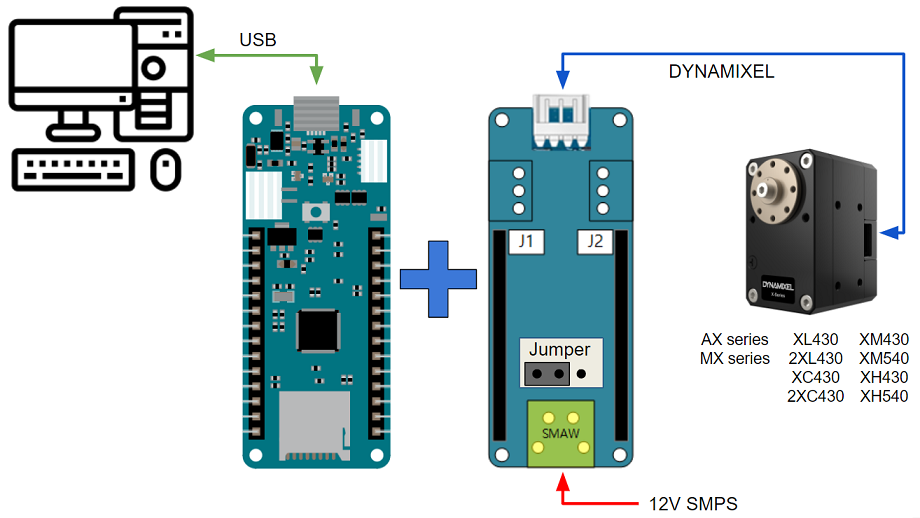
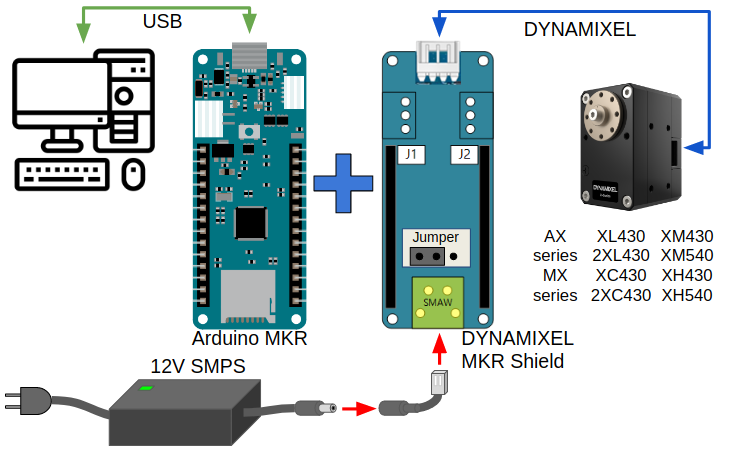
mkr manual revision

diff --git a/docs/en/parts/interface/mkr_shield.md b/docs/en/parts/interface/mkr_shield.md
@@ -16,93 +16,116 @@ sidebar:
 
 DYNAMIXEL MKR Shield(TTL) is compatible with MKR form factor Arduino boards such as MKR ZERO, MKR1000 WIFI, MKR WiFi 1010, and Portenta H7. We provide Arduino libraries(DYNAMIXEL2Arduino, DYNAMIXEL Shield) for DYNAMIXEL MKR Shield to accelerate the development process using DYNAMIXEL on Arduino.
 
+Please refer to DYNAMIXEL Shield Libraries section to 
+
 {% capture shield_00 %}
 **WARNING!**
-1. **This product does not contain Arduino Board. Arduino Board should be purchased separately.**  
-2. **One of three DYNAMIXEL ports is attached on the shield for DYNAMIXEL X series (More headers are included).**
-3. **Please solder included headers and parts when necessary.**
-4. **Some Arduino MKR shields(i.g. Arduino MKR 485 Shield, Arduino MKR GPS Shield, etc) may not fully compatible with DYNAMIXEL MKR Shield due to the pin confliction. Please refer to each product information before use with DYNAMIXEL MKR Shield.**  
+1. This product does not contain Arduino Board. **Arduino Board should be purchased separately.**  
+2. **One of three DYNAMIXEL ports is attached** on the shield for DYNAMIXEL X series (More headers are included).  
+3. Please solder included headers and parts when necessary.  
+4. Some Arduino MKR shields may not fully compatible with DYNAMIXEL MKR Shield due to the pin confliction. Please refer to each product information before use with DYNAMIXEL MKR Shield.  
 {% endcapture %}
 <div class="notice--danger">{{ shield_00 | markdownify }}</div>
 
+# [Quick Start Guide](#quick-start-guide)
+
+## Online Coursework
+![](http://robotsource.net/upload_image/images/1596679803mkr.png)
+
+## Video
+<iframe width="560" height="315" src="https://www.youtube.com/embed/UFitBEHsWTo" frameborder="0" allow="autoplay; encrypted-media" allowfullscreen></iframe>
+
 # [Specifications](#specifications)
 
-|            Item            |                              Details                               |
-|:--------------------------:|:------------------------------------------------------------------:|
-| Recommended supply Voltage |                            3.7 ~ 24 [V]                            |
-|      Maximum Current       |                                 3A                                 |
-|         Connectors         | JST ([S3B-EH]), Molex ([5268-02A]), Power Connector ([SMAW250-02]) |
-|           Cables           |      DC Jack Harness (Type A, O.D.: 5.5 [mm], I.D.: 2.1 [mm])      |
-|         Dimensions         |                            68 x 25 [mm]                            |
+|             Item             |                                        Details                                         |
+|:----------------------------:|:--------------------------------------------------------------------------------------:|
+| VIN(DXL) Voltage<sup>1</sup> |                                      3.7 ~ 24 [V]                                      |
+|    Operating Temperature     |                                   -10 ~ +80 [&deg;C]                                   |
+|    Connectors<sup>2</sup>    |    JST([S3B-EH]), Molex([5268-02A]), Power Connector([SMAW250-02]), Terminal Block     |
+|     Physical Connection      |                                        TTL only                                        |
+|            Cables            | DC Jack Harness (Type A, O.D.: 5.5 [mm], I.D.: 2.5 [mm]), Convertible cable for XL-320 |
+|          Dimensions          |                                      68 x 25 [mm]                                      |
+|            Weight            |                                         11 [g]                                         |
 
-[ROBOTIS SMPS 12V 5A PS-10] is recommended for 12V DYNAMIXEL power supply.
+<sup>1</sup> [ROBOTIS SMPS 12V 5A PS-10] is recommended for 12V DYNAMIXEL power supply.  
+<sup>2</sup> Only one JST is assembled by default. Please solder included connectors when necessary.
+{: .notice}
+
 
 ## [Supported DYNAMIXEL](#supported-dynamixel)
-DYNAMIXEL MKR Shield(TTL) only supports `TTL` based DYNAMIXEL lineups.
+DYNAMIXEL MKR Shield only supports `TTL` based DYNAMIXEL lineups.
 
 | DYNAMIXEL Series |                                    |                                     |                                     |                                     |
 |:-----------------|:-----------------------------------|:------------------------------------|:------------------------------------|:------------------------------------|
 | **AX**           | [AX-12W]                           | [AX-12+/12A]                        | [AX-18F/18A]                        |                                     |
 | **MX**           | [MX-12W]                           | [MX-28T/AT]<br/> [MX-28T/AT(2.0)]   | [MX-64T/AT]<br/> [MX-64T/AT(2.0)]   | [MX-106T/AT]<br/> [MX-106T/AT(2.0)] |
-| **XL**           | [XL-320]                           | XL330-M077-T<br/> XL330-M288-T      | [XL430-W250-T]<br/> [2XL430-W250-T] |                                     |
+| **XL**           | [XL-320]                           | [XL330-M077-T]<br/> [XL330-M288-T]  | [XL430-W250-T]<br/> [2XL430-W250-T] |                                     |
 | **XC**           | [XC430-W150-T]                     | [XC430-W240-T]<br/> [2XC430-W250-T] |                                     |                                     |
 | **XM**           | [XM430-W210-T]<br/> [XM430-W350-T] | [XM540-W150-T]<br/> [XM540-W270-T]  |                                     |                                     |
 | **XH**           | [XH430-W210-T]<br/> [XH430-W350-T] | [XH540-W150-T]<br/> [XH540-W270-T]  |                                     |                                     |
 
-## Part Lists(#part-lists)
+## [Part Lists](#part-lists)
 The following parts are included in the package.  
-PCB headers
+- DYNAMIXEL MKR Shield (1)
+- JST([S3B-EH]) (2)
+- Molex([5268-02A]) (2)
+- Terminal Block (1)
+- DC Jack Harness (1)
+- XL-320 Convertible cable (1)
 
 # [Layout](#layout)
-DYNAMIXEL MKR Shield Schematics can be found in the below.   
-[Place the Schematic PDF file link here]
+DYNAMIXEL MKR Shield Schematics can be found in the below.  
+- [DYNAMIXEL MKR Shield Schematic](https://www.robotis.com/service/download.php?no=1988)
 
 ![](/assets/images/parts/interface/mkr_shield/pinmap.png)  
 > The DYNAMIXEL MKR Shield pinout is based on the layout of Aruduino MKR boards. 
 
-|        Item        |                           Description                           |
-|:------------------:|:---------------------------------------------------------------:|
-| DYNAMIXEL TTL Port |                     TTL DYNAMIXEL supported                     |
-|      VIN(DXL)      |               External power input for DYNAMIXEL                |
-|        +5V         |        Arduino MKR 5V shared power source for DYNAMIXEL         |
-|     Jumper Cap     | <sup>*</sup>Power Source Selection between `VIN(DXL)` and `+5V` |
-
-{% capture shield_01 %}
-<sup>*</sup> When `+5V` is selected with the Jumper Cap, do **NOT** connect the external power source at the Power Connector `VIN(DXL)`. Doing so will damage the Arduino MKR board.  
-{% endcapture %}
-<div class="notice--warning">{{ shield_01 | markdownify }}</div>
+|        Item        |                     Description                     |
+|:------------------:|:---------------------------------------------------:|
+| DYNAMIXEL TTL Port |               TTL DYNAMIXEL supported               |
+|      VIN(DXL)      |         External power input for DYNAMIXEL          |
+|        +5V         |  Arduino MKR 5V shared power source for DYNAMIXEL   |
+|     Jumper Cap     | Power Source Selection between `VIN(DXL)` and `+5V` |
 
 ![](/assets/images/parts/interface/mkr_shield/mkr_pinmap.png)  
-> Arduino MKR board pinout. [Arduino Products](https://www.arduino.cc/en/Main/Products).
+> Arduino MKR board pinout example. Please refer to each product in [Arduino Products](https://www.arduino.cc/en/Main/Products) for more details.
 
-| Pin No. |  Pin Name   |    Description     |
-|:-------:|:-----------:|:------------------:|
-|   13    | HW UART RX  |       DXL_RX       |
-|   14    | HW UART TX  |       DXL_TX       |
-| 21(A6)  | HW UART DIR | DXL_DIR(DXL_TX_EN) |
-
--	DXL_RX (13), DXL_TX (14) : Hardware serial port to communicate with DYNAMIXEL.
-- DXL_DIR (21 or A6) : Flow control of DYNAMIXEL packet.
+| Pin No. | Pin Name | Description                                                                            |
+|:-------:|:--------:|:---------------------------------------------------------------------------------------|
+|   13    |    RX    | Hardware serial port to receive data from DYNAMIXEL                                    |
+|   14    |    TX    | Hardware serial port to transmit data to DYNAMIXEL                                     |
+| 21(A6)  |  TX_EN   | Flow control of DYNAMIXEL data BUS<br />- **HIGH** : Transmit<br />- **LOW** : Receive |
 
 # [How to Connect](#how-to-connect)
 DYNAMIXEL MKR Shield can be mounted on or below the Arduino MKR boards.  
 Please check the compatibility when using multiple shields on a single Arduino MKR board.
 
-![](/assets/images/parts/interface/mkr_shield/connection_diagram_vin.png)
-> Connecting 12V DYNAMIXEL
+## 12V DYNAMIXEL using SMPS 
+  ![](/assets/images/parts/interface/mkr_shield/connection_diagram_vin.png)
 
-![](/assets/images/parts/interface/mkr_shield/connection_diagram_5v.png)
-> Connecting 5V DYNAMIXEL
+## 12V DYNAMIXEL using Terminal Block 
+  ![](/assets/images/parts/interface/mkr_shield/connection_diagram_vin_tb.png)
 
-## [Powering DYNAMIXEL](#powering-dynamixel)
+## AX / MX Series DYNAMIXEL  
+  ![](/assets/images/parts/interface/mkr_shield/connection_diagram_mx.png)
 
-|             Use VIN(DXL) from external power source              |                   Use +5V from Arduino MKR                   |
+## XL330 using USB power  
+  ![](/assets/images/parts/interface/mkr_shield/connection_diagram_5v.png)
+
+  After completing program upload, 1 cell Lithium battery(3.7V) can be used to run XL330  
+  ![](/assets/images/parts/interface/mkr_shield/connection_diagram_batt.png)
+
+
+# [Power Select Jumper](#power-select-jumper)
+
+|          Use VIN(DXL) from external power source(SMPS)           |                   Use +5V from Arduino MKR                   |
 |:----------------------------------------------------------------:|:------------------------------------------------------------:|
 | ![](/assets/images/parts/interface/mkr_shield/select_vindxl.png) | ![](/assets/images/parts/interface/mkr_shield/select_5v.png) |
+|When using `VIN(DXL)` from external power source, use included DC barrel jack extension or solder the terminal block when needed. **Additional power source for Arduino MKR board will be required.**|When using `+5V` from Arduino MKR, be aware that some Arduino MKR board has a built in fuse that prevents excessive use of 5V power. Please refer to each Arduino MKR board specification.|
 
-- When using `VIN(DXL)` from external power source, use included DC barrel jack extension or solder the terminal block when needed. Additional power source for Arduino MKR board will be required.
-- When using `+5V` from Arduino MKR, be aware that some Arduino MKR board has a built in fuse that prevents excessive use of 5V power. This may affect to the operation of DYNAMIXEL.
--	When using the terminal block, **be sure to check the polarity of the power supply**.
+When replacing the VIN(DXL) power connector with included terminal block, **be aware of the polarity of the power supply**.
+{: .notice}
+
 
 # [DYNAMIXEL Shield Libraries](#dynamixel-shield-libraries)
 
@@ -121,12 +144,12 @@ DYNAMIXEL Shield Library : [GitHub Repository][DYNAMIXEL Shield GitHub repositor
 
 There are three ways to add libraries to the Arduino IDE.
 
-- Using the Library Manager
-- Importing a .zip Library
-- Manual installation
+1. **Using the Library Manager**
+2. Importing a .zip Library
+3. Manual installation
 
 Each way is described in detail in the [Arduino Official Guide], so please refer to it if necessary.  
-Below is an example of using the Library Manager.
+Below is an example of **using the Library Manager** from Arduino IDE.
 
 ![](/assets/images/parts/interface/dynamixel_shield/library_manager_01.png)
 
@@ -178,6 +201,8 @@ If you have successfully installed both libraries, you'll be able to find severa
 
 Dynamixel2Arduino class inherits below public functions from the Master class.
 
+- [read()]{: .popup}
+- [write()]{: .popup}
 - [syncRead()]{: .popup}
 - [syncWrite()]{: .popup}
 - [bulkRead()]{: .popup}
@@ -200,56 +225,9 @@ The Remote Controller class can be used with the Arduino MKR boards by enabling 
 - [flush()]{: .popup}
 - [write()]{: .popup}
 
-### [DynamixelShield(v0.0.5)](#dynamixelshieldv005)
-
-**WARNING** : This version of DYNAMIXEL Shield API is deprecated and not maintained anymore.
-{: .notice--warning}
-
-```c
-bool begin(uint32_t baud_rate = 57600, uint8_t protocol_version = DXL_PACKET_VER_2_0);
-
-bool scan(void);
-bool ping(uint8_t id = DXL_GLOBAL_ID);
-bool addMotor(uint8_t id, uint8_t model);
-bool setProtocolVersion(uint8_t version);
-bool write(uint8_t id, uint16_t addr, uint8_t *p_data, uint16_t length, uint32_t timeout);
-bool read(uint8_t id, uint16_t addr, uint8_t *p_data, uint16_t length, uint32_t timeout);
-
-uint8_t getDxlCount(void);
-uint8_t getDxlID(uint8_t index);
-uint32_t getErr(void);
-void clearErr(void);
-
-bool reboot(uint8_t id);
-bool reset(uint8_t id);
-
-bool setID(uint8_t id, uint8_t new_id);
-bool setBaud(uint8_t id, uint32_t new_baud);
-
-bool ledOn(uint8_t id);
-bool ledOff(uint8_t id);
-
-bool torqueOn(uint8_t id);
-bool torqueOff(uint8_t id);
-
-bool setJointMode(uint8_t id);
-bool setWheelMode(uint8_t id);
-
-bool    setGoalPosition(uint8_t id, uint32_t position);
-int32_t getGoalPosition(uint8_t id);
-int32_t getCurPosition(uint8_t id);
-
-bool    setGoalSpeed(uint8_t id, int32_t speed);
-int32_t getGoalSpeed(uint8_t id);   
-int32_t getCurSpeed(uint8_t id);  
-
-bool    setGoalAngle(uint8_t id, int32_t angle);
-int32_t getGoalAngle(uint8_t id);
-int32_t getCurAngle(uint8_t id);
-
-bool syncWriteBegin(void);
-bool syncWriteEnd(void);
-```
+# [Download](#download)
+- [DYNAMIXEL MKR Shield Schematic(PDF)](https://www.robotis.com/service/download.php?no=1988)  
+![](/assets/images/parts/interface/mkr_shield/mkr_schematic.png)
 
 
 [AX-12W]: /docs/en/dxl/ax/ax-12w/
@@ -311,6 +289,8 @@ bool syncWriteEnd(void);
 [getPresentCurrent()]: /docs/en/popup/arduino_api/getPresentCurrent/
 [readControlTableItem()]: /docs/en/popup/arduino_api/readControlTableItem/
 [writeControlTableItem()]: /docs/en/popup/arduino_api/writeControlTableItem/
+[read()]: /docs/en/popup/arduino_api/read/
+[write()]: /docs/en/popup/arduino_api/write/
 [syncRead()]: /docs/en/popup/arduino_api/syncRead/
 [syncWrite()]: /docs/en/popup/arduino_api/syncWrite/
 [bulkRead()]: /docs/en/popup/arduino_api/bulkRead/
